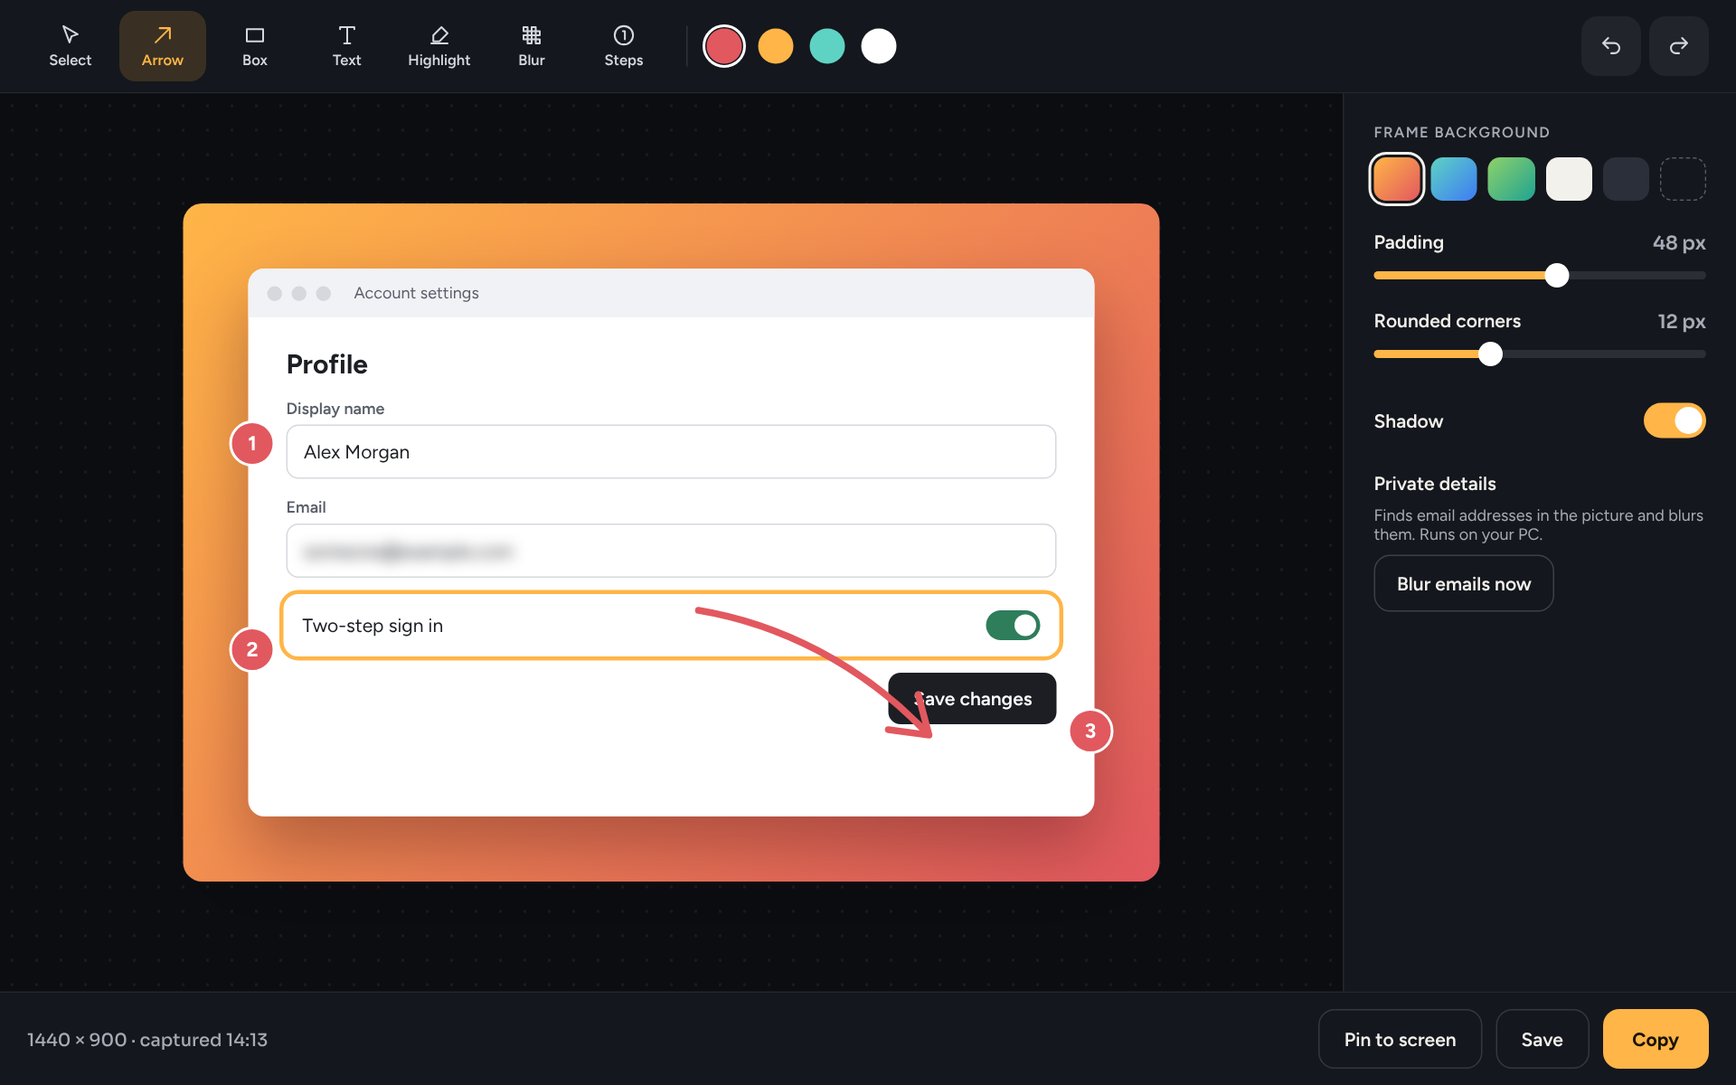
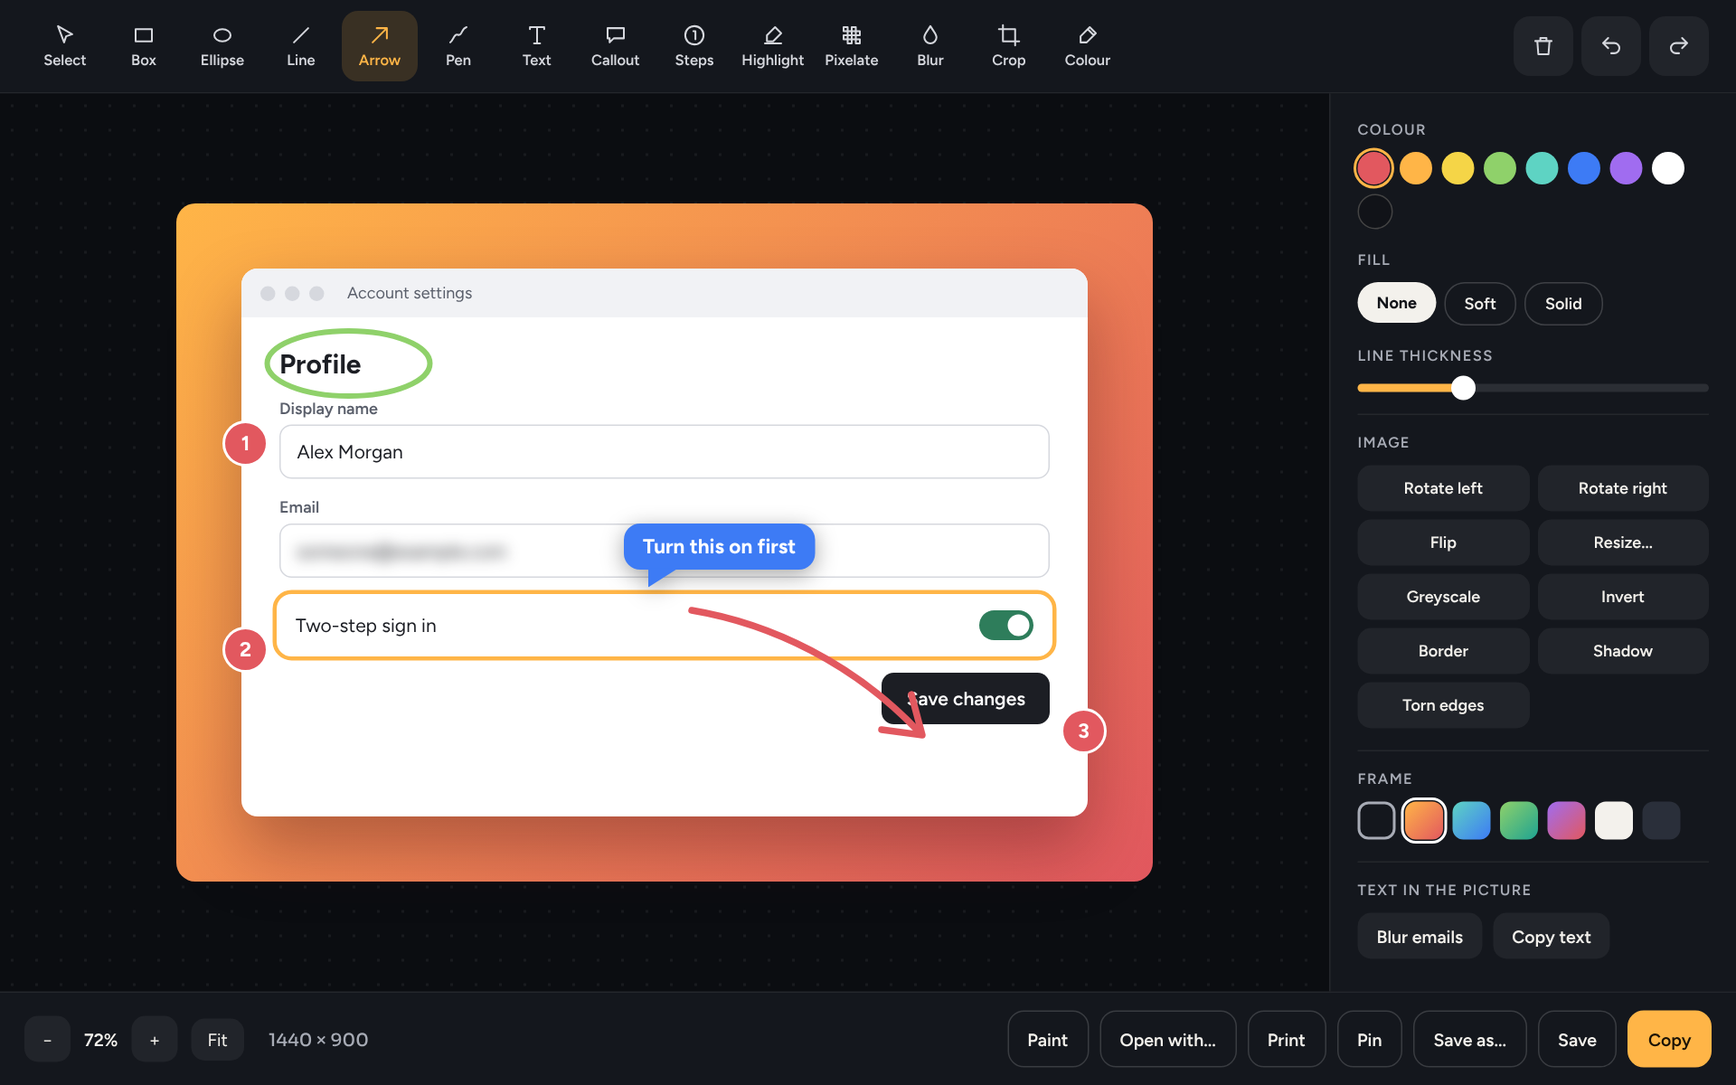
Arrakis 1.1.0: screenshot studio, docs and website

diff --git a/docs/index.html b/docs/index.html
@@ -156,6 +156,26 @@ footer{margin-top:80px;border-top:1px solid var(--line);padding:30px 0 50px;colo
 footer .wrap{display:flex;justify-content:space-between;flex-wrap:wrap;gap:12px}
 footer a{color:var(--muted);text-decoration:none;margin-left:16px}footer a:hover{color:var(--text)}
 
+
+/* ---------- screenshot studio ---------- */
+.studio-grid{display:grid;grid-template-columns:minmax(0,7fr) minmax(0,5fr);gap:40px;align-items:center;margin-top:44px}
+.studio-copy h3{font-family:var(--display);font-size:26px;letter-spacing:-.02em;font-weight:600}
+.studio-copy p{color:var(--muted);margin-top:10px}
+.ticks{list-style:none;margin-top:18px;display:grid;gap:10px}
+.ticks li{position:relative;padding-left:28px;color:#dcdad5;font-size:15.5px}
+.ticks li::before{content:"";position:absolute;left:2px;top:.5em;width:12px;height:7px;border-left:2.4px solid var(--teal);border-bottom:2.4px solid var(--teal);transform:rotate(-45deg)}
+.ticks kbd,.modes kbd{font-family:var(--body);font-size:12.5px;font-weight:700;background:rgba(255,255,255,.09);border:1px solid var(--line2);border-bottom-width:2px;padding:1px 7px;border-radius:7px}
+.modes{display:grid;grid-template-columns:repeat(6,1fr);gap:1px;background:var(--line);border:1px solid var(--line);border-radius:18px;overflow:hidden;margin-top:44px}
+.modes div{background:var(--bg);padding:16px 12px;text-align:center}
+.modes b{display:block;font-size:15px}
+.modes span{color:var(--muted);font-size:13px}
+.toolgrid{display:grid;grid-template-columns:repeat(3,1fr);gap:16px;margin-top:20px}
+.toolgrid div{background:var(--panel);border:1px solid var(--line);border-radius:20px;padding:22px}
+.toolgrid h3{font-size:17px;margin-bottom:6px}
+.toolgrid p{color:var(--muted);font-size:14.5px}
+@media (max-width:860px){.studio-grid{grid-template-columns:1fr;gap:24px}.modes{grid-template-columns:repeat(3,1fr)}.toolgrid{grid-template-columns:1fr}}
+@media (max-width:480px){.modes{grid-template-columns:repeat(2,1fr)}}
+
 /* reveal on scroll */
 .reveal{opacity:0;transform:translateY(16px);transition:opacity .6s ease,transform .6s ease}
 .reveal.in{opacity:1;transform:none}
@@ -169,6 +189,7 @@ footer a{color:var(--muted);text-decoration:none;margin-left:16px}footer a:hover
   <nav aria-label="Main">
     <a class="brand" href="#top"><img src="images/icon.png" alt="">Arrakis</a>
     <a class="link" href="#tour">Tour</a>
+    <a class="link" href="#studio">Screenshots</a>
     <a class="link" href="#install">Install</a>
     <a class="link" href="https://github.com/bhxuk/arrakis">GitHub</a>
     <a class="get" href="https://github.com/bhxuk/arrakis/releases/latest/download/Arrakis-Setup.exe">Download</a>
@@ -179,9 +200,9 @@ footer a{color:var(--muted);text-decoration:none;margin-left:16px}footer a:hover
 <header class="hero" id="top">
   <div class="glow" aria-hidden="true"></div>
   <div class="wrap">
-    <a class="badge" href="https://github.com/bhxuk/arrakis/releases/latest"><span>v1.0</span>Seven modules, one small app</a>
+    <a class="badge" href="#studio"><span>New in 1.1</span>A full screenshot studio</a>
     <h1>Your whole desktop,<br><span class="grad">finally yours.</span></h1>
-    <p class="lead">A dock, desktop widgets, a wallpaper that follows the sun, a proper clipboard, a screenshot editor, a focus timer and battery health. For Windows 10 and 11. Switch on only what you want.</p>
+    <p class="lead">A dock, desktop widgets, a wallpaper that follows the sun, a proper clipboard, a full screenshot studio, a focus timer and battery health. For Windows 10 and 11. Switch on only what you want.</p>
     <div class="cta">
       <a class="btn primary" href="https://github.com/bhxuk/arrakis/releases/latest/download/Arrakis-Setup.exe">
         <svg viewBox="0 0 24 24" fill="none" stroke="currentColor" stroke-width="2.4" stroke-linecap="round" stroke-linejoin="round" aria-hidden="true"><path d="M12 4v11M7 10l5 5 5-5M5 20h14"/></svg>
@@ -269,10 +290,11 @@ footer a{color:var(--muted);text-decoration:none;margin-left:16px}footer a:hover
       <div class="frame"><img src="images/clipboard.png" width="1920" height="1200" alt="The clipboard panel with search, filters and pinned items" loading="lazy"></div>
     </div>
     <div class="panel" role="tabpanel" id="p-cap" aria-labelledby="t-cap" hidden>
-      <div><h3>Capture</h3><p>Drag over anything on screen, then mark it up and make it look good.</p>
-        <ul><li>Arrows, boxes, text, highlights, blur and numbered steps</li><li>Sunset, ocean and meadow frames with shadow</li><li>Email addresses blurred for you, on your PC</li><li>Copy, save, or pin it above everything</li></ul>
-        <span class="shortcut"><kbd>Ctrl</kbd><kbd>Alt</kbd><kbd>S</kbd> take a screenshot</span></div>
-      <div class="frame"><img src="images/capture.png" width="1920" height="1200" alt="The screenshot editor with numbered steps, an arrow and a blurred email" loading="lazy"></div>
+      <div><h3>Capture</h3><p>A full screenshot studio: grab an area, a window or every screen, then mark it up with 14 tools.</p>
+        <ul><li>Area, window, full screen, all screens, last area or delayed</li><li>Magnifier with exact pixel and colour</li><li>Callouts, steps, arrows, blur, crop and more</li><li>Copy text out of any screenshot</li></ul>
+        <span class="shortcut"><kbd>Ctrl</kbd><kbd>Alt</kbd><kbd>S</kbd> area &#160; <kbd>D</kbd> window &#160; <kbd>A</kbd> screen</span>
+        <p style="margin-top:14px"><a href="#studio" style="color:var(--amber);font-weight:700;text-decoration:none">See everything it does &rarr;</a></p></div>
+      <div class="frame"><img src="images/capture.png" width="1920" height="1200" alt="The screenshot editor with 14 tools, a callout, numbered steps, an arrow, a blurred email and a sunset frame" loading="lazy"></div>
     </div>
     <div class="panel" role="tabpanel" id="p-focus" aria-labelledby="t-focus" hidden>
       <div><h3>Focus</h3><p>A small pill counts down at the top of your screen while everything else goes quiet.</p>
@@ -289,6 +311,45 @@ footer a{color:var(--muted);text-decoration:none;margin-left:16px}footer a:hover
   </div>
 </section>
 
+<section id="studio">
+  <div class="wrap">
+    <div class="center reveal">
+      <p class="kicker">New in 1.1 · Capture</p>
+      <h2>A screenshot studio,<br>built right in.</h2>
+      <p class="intro">Everything you'd want from a dedicated screenshot app like Greenshot, in the same calm design as the rest of Arrakis.</p>
+    </div>
+
+    <div class="studio-grid reveal">
+      <div class="frame"><img src="images/capture-overlay.png" width="1920" height="1200" alt="Picking an area on screen, with the size shown and a magnifier showing the exact pixel and colour" loading="lazy"></div>
+      <div class="studio-copy">
+        <h3>Pick exactly what you want</h3>
+        <p>The screen freezes so nothing moves. Drag an area, or hover and click a window. A magnifier shows the exact pixel, its position and its colour.</p>
+        <ul class="ticks"><li><kbd>Space</kbd> switches between area and window</li><li><kbd>C</kbd> copies the colour under the mouse</li><li>Arrow keys nudge one pixel at a time</li><li>Optional mouse pointer in the shot</li></ul>
+      </div>
+    </div>
+
+    <div class="modes reveal">
+      <div><b>Area</b><span>Ctrl+Alt+S</span></div>
+      <div><b>Window</b><span>Ctrl+Alt+D</span></div>
+      <div><b>Full screen</b><span>Ctrl+Alt+A</span></div>
+      <div><b>All screens</b><span>Tray menu</span></div>
+      <div><b>Last area</b><span>Shift+PrtSc</span></div>
+      <div><b>In 5 seconds</b><span>Tray menu</span></div>
+    </div>
+
+    <div class="frame reveal" style="margin-top:28px"><img src="images/capture.png" width="1920" height="1200" alt="The screenshot editor with 14 tools, style options, image effects and frames" loading="lazy"></div>
+
+    <div class="toolgrid reveal">
+      <div><h3>14 tools</h3><p>Select, box, ellipse, line, arrow, pen, text, callout, numbered steps, highlight, pixelate, blur, crop and a colour picker. Each one has a single-key shortcut.</p></div>
+      <div><h3>Change your mind</h3><p>Move, nudge, recolour and delete anything you've drawn. Full undo and redo, and zoom with Ctrl and the wheel.</p></div>
+      <div><h3>Effects</h3><p>Rotate, flip, resize, greyscale, invert, border, drop shadow and torn edges. Then add a frame with padding and rounded corners.</p></div>
+      <div><h3>Private by default</h3><p>Email addresses are blurred automatically, and Copy text reads the words in any screenshot. Both run on your PC.</p></div>
+      <div><h3>Every way out</h3><p>Copy, quick-save with your own file names, Save as PNG, JPG, BMP, GIF or TIFF, print, open in Paint, or pin it on top.</p></div>
+      <div><h3>Or skip the editor</h3><p>Set screenshots to go straight to the clipboard or a folder. Print Screen keys work just like Greenshot's.</p></div>
+    </div>
+  </div>
+</section>
+
 <section>
   <div class="wrap">
     <div class="center reveal">
@@ -300,9 +361,11 @@ footer a{color:var(--muted);text-decoration:none;margin-left:16px}footer a:hover
         <h3>Keyboard first</h3><p>Everything you use often is one shortcut away, from anywhere.</p>
         <div class="keys">
           <div>Clipboard <kbd>Ctrl+Alt+V</kbd></div>
-          <div>Screenshot <kbd>Ctrl+Alt+S</kbd></div>
+          <div>Screenshot area <kbd>Ctrl+Alt+S</kbd></div>
+          <div>Screenshot window <kbd>Ctrl+Alt+D</kbd></div>
           <div>Focus <kbd>Ctrl+Alt+F</kbd></div>
           <div>Edit widgets <kbd>Ctrl+Alt+W</kbd></div>
+          <div>Full screen <kbd>Ctrl+Alt+A</kbd></div>
         </div>
       </div>
       <div class="b-small"><span class="ic teal" style="width:44px;height:44px;border-radius:14px;display:grid;place-items:center;margin-bottom:14px"><svg viewBox="0 0 24 24"><path d="M20 11a8 8 0 1 0-2.3 5.7M20 4v7h-7"/></svg></span><h3>Taskbar safety net</h3><p>Hide the taskbar if you like. It always comes back when Arrakis closes.</p></div>

diff --git a/src/Arrakis/Modules/CaptureEditor.cs b/src/Arrakis/Modules/CaptureEditor.cs
@@ -280,7 +280,7 @@ namespace Arrakis.Modules
             layout.Children.Add(_scroll);
             Content = layout;
 
-            _canvas.MouseLeftButtonDown += OnDown;
+            _canvas.PreviewMouseLeftButtonDown += OnDown;
             _canvas.MouseMove += OnMove;
             _canvas.MouseLeftButtonUp += OnUp;
             PreviewKeyDown += OnKey;
@@ -507,7 +507,9 @@ namespace Arrakis.Modules
         {
             var p = Clamp(e.GetPosition(_canvas));
             _down = p;
-            if (_editing != null && !(e.OriginalSource is DependencyObject d0 && IsInside(d0, _editing.El))) CommitText();
+            // Clicks inside the text being typed belong to the text box.
+            if (_editing != null && e.OriginalSource is DependencyObject d0 && IsInside(d0, _editing.El)) return;
+            if (_editing != null) CommitText();
 
             switch (_tool)
             {
@@ -518,6 +520,7 @@ namespace Arrakis.Modules
                     if (hit != null)
                     {
                         if (e.ClickCount == 2 && hit.Text != null) { BeginEdit(hit); e.Handled = true; return; }
+                        e.Handled = true;
                         _moving = true;
                         _moveStart = p;
                         var t = Translate(hit.El);

diff --git a/docs/USER-GUIDE.md b/docs/USER-GUIDE.md
@@ -150,36 +150,93 @@ Change the size, turn off image saving or clear everything in Arrakis > Clipboar
 
 <img src="images/capture.png" width="760" alt="Screenshot editor">
 
-1. Press **Ctrl+Alt+S** (or use the tray menu). The screen freezes.
-2. **Drag** over the area you want. Press **Enter** (or just click) for the whole screen, **Esc** to cancel.
-3. The editor opens.
+### Taking a screenshot
 
-**Tools** (top bar):
-
-| Tool | How to use it |
+| Shortcut | Captures |
 |---|---|
-| Select | Drag anything you've added to move it |
-| Arrow | Drag from where it starts to where it points |
-| Box | Drag to draw an outline |
-| Text | Click where you want it and type. Enter to finish |
-| Highlight | Drag over something to highlight it |
-| Blur | Drag over anything private to pixelate it |
-| Steps | Click to drop numbered circles: 1, 2, 3... |
+| Ctrl+Alt+S | An area you drag, or a window you click |
+| Ctrl+Alt+D | A window (hover to see it outlined, click to take it) |
+| Ctrl+Alt+A | The whole screen the mouse is on |
 
-Pick a colour from the circles next to the tools. **Ctrl+Z** undoes.
+The tray menu (right-click the Arrakis icon > **Screenshot**) and Arrakis > Capture also have **All screens**,
+**Last area again** and **Area in 5 seconds**, which gives you time to open a menu first.
 
-**Frame** (right side): put the screenshot on a background (*Sunset*, *Ocean*, *Meadow*, *Light*, *Dark* or none),
-and set the padding, rounded corners and shadow.
+**Using the Print Screen key**: switch on *Use the Print Screen key* in Arrakis > Capture to get Greenshot-style keys:
+**Print Screen** for an area, **Alt+Print Screen** for a window, **Ctrl+Print Screen** for the full screen and
+**Shift+Print Screen** for the last area again. Windows may already use Print Screen for Snipping Tool; turn that off in
+Windows Settings > Accessibility > Keyboard first.
 
-**Private details**: email addresses are found and blurred automatically when the editor opens
-(switch this off in Arrakis > Capture). Click **Blur emails now** to run it again. This uses Windows' built-in text
-recognition, so nothing leaves your PC.
+<img src="images/capture-overlay.png" width="760" alt="Picking an area with the magnifier">
 
-**When you're done**: **Copy** (Ctrl+C) to paste it somewhere, **Save** (Ctrl+S) as PNG or JPG, or
-**Pin to screen** to float it above everything (drag to move, scroll to resize, double-click to close).
+**While picking an area**
 
-You can also set Arrakis to use the **Print Screen** key in Arrakis > Capture. Windows may already use that key
-for Snipping Tool; turn that off in Windows Settings > Accessibility > Keyboard first.
+| Do this | And this happens |
+|---|---|
+| Drag | Capture that area |
+| Click | Capture the window under the mouse |
+| Space | Switch between area and window mode |
+| Arrow keys | Move the mouse one pixel at a time |
+| C | Copy the colour under the mouse (for example `#E2585F`) |
+| Enter | Capture the whole screen |
+| Esc or right-click | Cancel |
+
+The magnifier shows the pixels around the mouse, the exact position and the colour. Switch it off in Arrakis > Capture
+if you don't want it. You can also choose to include the mouse pointer in screenshots.
+
+### Editing
+
+**Tools** (top bar). Each has a one-letter shortcut:
+
+| Tool | Key | How to use it |
+|---|---|---|
+| Select | V | Click something you've added to select it. Drag to move, arrow keys to nudge (Shift for bigger steps), Delete to remove, click a colour to recolour. Double-click text to edit it |
+| Box | R | Drag. Shift for a square |
+| Ellipse | E | Drag. Shift for a circle |
+| Line | L | Drag. Shift snaps to 45° |
+| Arrow | A | Drag from where it starts to where it points. Shift snaps to 45° |
+| Pen | F | Draw freehand |
+| Text | T | Click and type. Enter to finish, Shift+Enter for a new line |
+| Callout | S | Click to add a speech bubble and type |
+| Steps | N | Click to drop numbered circles: 1, 2, 3... |
+| Highlight | H | Drag over something to highlight it |
+| Pixelate | P | Drag over anything private |
+| Blur | B | Drag over anything private for a soft blur |
+| Crop | C | Drag the area you want to keep |
+| Colour | I | Click the picture to use that colour (the hex code is copied too) |
+
+**Style** (right side): colour, fill for boxes and ellipses (*None*, *Soft* or *Solid*), line thickness, text size and
+a soft shadow on shapes.
+
+**Image**: rotate left or right, flip, resize, greyscale, invert, border (in the current colour), drop shadow and torn edges.
+These apply to the picture with everything you've drawn on it, and can be undone.
+
+**Frame**: put the screenshot on a background (*Sunset*, *Ocean*, *Meadow*, *Dusk*, *Light*, *Dark* or none), with padding,
+rounded corners and a shadow.
+
+**Text in the picture**: *Blur emails* finds email addresses and pixelates them (this also happens automatically when the
+editor opens; switch it off in Arrakis > Capture). *Copy text* reads all the words in the picture and copies them.
+Both use Windows' built-in text recognition, so nothing leaves your PC.
+
+**Undo and redo**: Ctrl+Z and Ctrl+Y, or the buttons at the top right. **Zoom**: Ctrl and the mouse wheel, Ctrl+0 to fit,
+Ctrl+1 for actual size.
+
+### Sharing it
+
+| Button | Shortcut | Does |
+|---|---|---|
+| Copy | Ctrl+C | Copies the finished picture |
+| Save | Ctrl+S | Saves straight to your screenshot folder using your file name pattern. Click the message at the bottom to show the file |
+| Save as... | Ctrl+Shift+S | Choose where, and PNG, JPG, BMP, GIF or TIFF |
+| Print | Ctrl+P | Prints it, fitted to the page |
+| Paint / Open with... | | Opens it in Paint or any other app |
+| Pin | | Floats it above everything. Drag to move, scroll to resize, double-click to close, right-click to copy or edit |
+
+### Capture settings (Arrakis > Capture)
+
+- **After a capture**: open the editor (default), or skip it and copy, save, or copy and save straight away.
+- **Folder, file name and format**: the file name can use dates like `{yyyy-MM-dd HH.mm.ss}` and `{title}` for the window's name.
+- **Recent**: your latest saved screenshots. Click one to edit it again.
+- **Edit an image file...** and **Edit image on clipboard** open any picture in the editor.
 
 ## Focus
 
@@ -219,7 +276,9 @@ For laptops and tablets. On a desktop PC it just says there's no battery; switch
 | Shortcut | Does |
 |---|---|
 | Ctrl+Alt+V | Open the clipboard |
-| Ctrl+Alt+S | Take a screenshot |
+| Ctrl+Alt+S | Screenshot of an area |
+| Ctrl+Alt+D | Screenshot of a window |
+| Ctrl+Alt+A | Screenshot of the full screen |
 | Ctrl+Alt+F | Start, pause or resume focus |
 | Ctrl+Alt+W | Show or hide widget remove buttons |
 

diff --git a/README.md b/README.md
@@ -28,7 +28,7 @@ Arrakis is one app with seven modules. Each one has its own switch, so it only d
 | **Widgets** | Clock, weather, calendar, system rings, battery, now playing, notes and countdowns on your desktop. | Ctrl+Alt+W |
 | **Wallpaper** | Dawn, day, sunset and night scenes that change with real sunrise and sunset times. Or Bing's photo of the day. | Automatic |
 | **Clipboard** | Everything you copy, searchable. Pin things, stack several copies and paste them together, paste as plain text. | Ctrl+Alt+V |
-| **Capture** | Screenshots with arrows, boxes, text, highlights, blur and numbered steps, plus pretty frames. Blurs email addresses for you. | Ctrl+Alt+S |
+| **Capture** | A full screenshot tool: area, window, full screen, all screens or delayed. Edit with 14 tools, effects and frames, then copy, save, print or pin. | Ctrl+Alt+S |
 | **Focus** | A timer pill at the top of the screen that silences notifications, plays rain or ocean sounds and tracks your week. | Ctrl+Alt+F |
 | **Battery** | Battery wear, charge history and a nudge to unplug at 80%. For laptops. | Laptops |
 
@@ -71,10 +71,24 @@ Links, colours and images are recognised. Password managers that mark copies as 
 
 ### Capture
 
-Press **Ctrl+Alt+S**, drag over what you want, then mark it up. Copy, save or pin it on top of everything.
-Email addresses are found and blurred automatically, using Windows' own text recognition on your PC.
+A full screenshot tool in the spirit of Greenshot.
 
-<img src="docs/images/capture.png" alt="The screenshot editor with numbered steps, an arrow, a blurred email and a sunset frame" width="900">
+**Capture** an area (**Ctrl+Alt+S**), a window (**Ctrl+Alt+D**), the full screen (**Ctrl+Alt+A**), every screen at once,
+the same area as last time, or after a 5-second countdown. While you pick, a magnifier shows the exact pixel and its colour,
+windows light up as you hover them, and **Space** switches between area and window mode. You can also use the
+Print Screen keys the way Greenshot does.
+
+<img src="docs/images/capture-overlay.png" alt="Picking an area, with the size shown and a magnifier showing the pixel under the mouse" width="900">
+
+**Edit** with 14 tools: select and move, box, ellipse, line, arrow, freehand pen, text, speech-bubble callouts, numbered steps,
+highlighter, pixelate, blur, crop and a colour picker. Everything can be recoloured, moved, deleted and undone.
+Then rotate, flip, resize, greyscale, invert, add a border, a drop shadow or torn edges, and put it on a frame.
+**Copy text** reads the words in a screenshot, and email addresses are blurred for you, all on your PC.
+
+**Share** it: copy, quick-save with your own file name pattern, save as PNG, JPG, BMP, GIF or TIFF, print, open in Paint
+or any other app, or pin it on top of everything. If you don't need the editor, set captures to go straight to the clipboard or a folder.
+
+<img src="docs/images/capture.png" alt="The screenshot editor with 14 tools, a callout, numbered steps, an arrow, a blurred email, image effects and a sunset frame" width="900">
 
 ### Focus
 

diff --git a/CHANGELOG.md b/CHANGELOG.md
@@ -1,5 +1,24 @@
 # What's new
 
+## 1.1.0 (13 October 2026)
+
+A much bigger screenshot tool.
+
+- **New ways to capture**: window (Ctrl+Alt+D), full screen (Ctrl+Alt+A), all screens, last area again and a 5-second delay.
+  Greenshot-style Print Screen keys are available too.
+- **Better picking**: a magnifier with exact pixel position and colour, windows outlined as you hover, Space to switch modes,
+  arrow keys to nudge, C to copy a colour. Optionally include the mouse pointer.
+- **New editor tools**: select and move, ellipse, line, freehand pen, speech-bubble callouts, soft blur, crop and a colour picker,
+  alongside the box, arrow, text, steps, highlight and pixelate tools.
+- **Edit what you've drawn**: recolour, move, nudge and delete anything, with full undo and redo.
+- **Style**: nine colours, fill options, line thickness, text size and shadows on shapes.
+- **Image effects**: rotate, flip, resize, greyscale, invert, border, drop shadow and torn edges, plus a new Dusk frame.
+- **Copy text** from any screenshot, using Windows' own text recognition.
+- **More ways to share**: quick save with your own file name pattern, Save as PNG, JPG, BMP, GIF or TIFF, print, open in Paint or another app.
+- **Skip the editor** if you like: copy or save straight after capturing.
+- **Recent screenshots** on the Capture page, and edit any image file or the clipboard image.
+- Zoom in the editor with Ctrl and the mouse wheel.
+
 ## 1.0.0 (13 October 2026)
 
 The first release, with seven modules:
